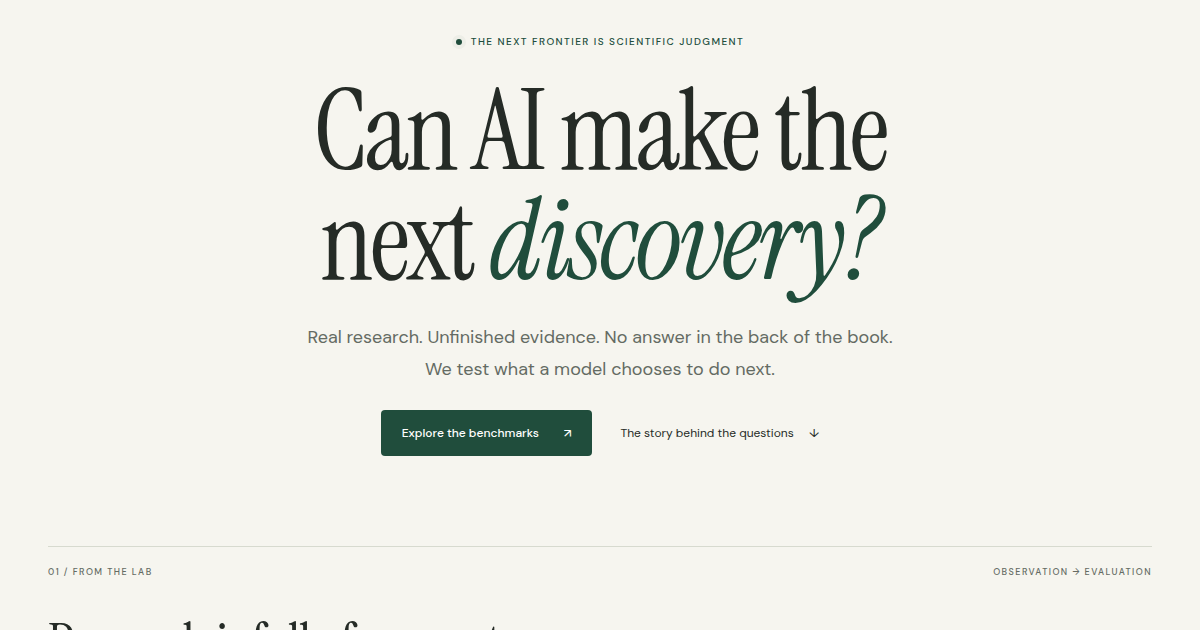
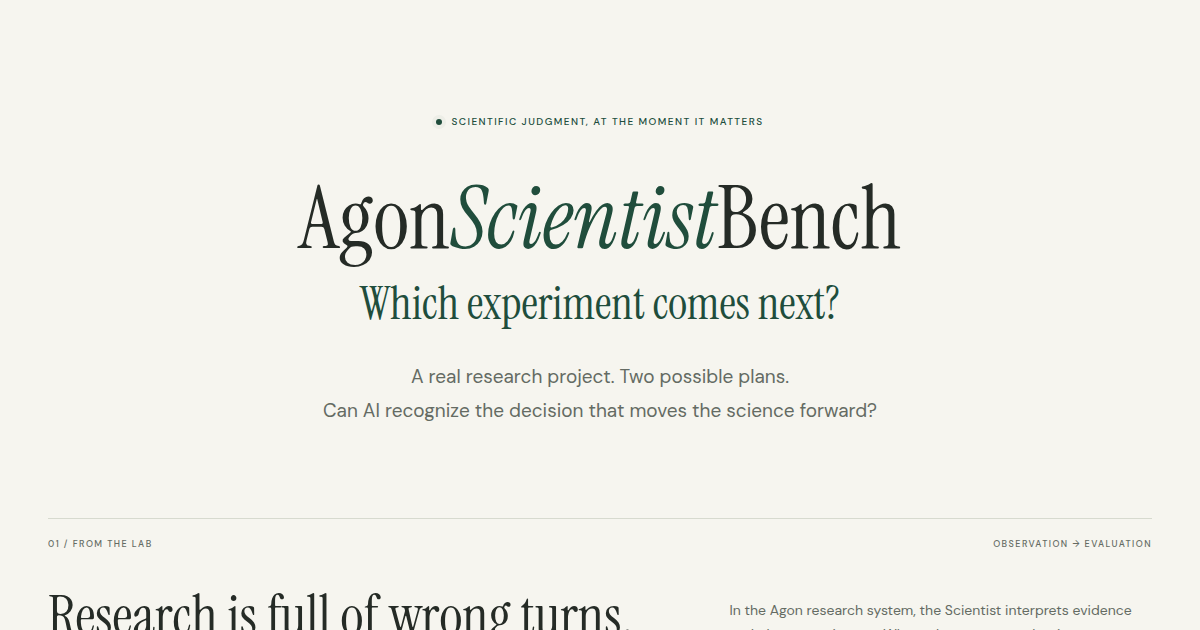
Unify AgonScientistBench branding around the two-choice first edition

diff --git a/index.html b/index.html
@@ -4,14 +4,14 @@
   <meta charset="utf-8">
   <meta name="viewport" content="width=device-width, initial-scale=1">
   <meta name="theme-color" content="#f6f5ef">
-  <meta name="description" content="Two benchmarks for scientific judgment. Built from real research histories, human interventions, and the experiments that followed.">
-  <meta property="og:title" content="Agon — Can AI make the next discovery?">
-  <meta property="og:description" content="Real research. Unfinished evidence. What should happen next? Explore two benchmarks for AI scientific judgment.">
+  <meta name="description" content="AgonScientistBench evaluates scientific judgment through two-choice questions drawn from real research histories. Which experiment should come next?">
+  <meta property="og:title" content="AgonScientistBench | Which experiment comes next?">
+  <meta property="og:description" content="A real research project. Two possible plans. A benchmark for the scientific judgment that determines what happens next.">
   <meta property="og:type" content="website">
   <meta property="og:image" content="https://autoresearch-factory.github.io/AgonBench-site/assets/social-card.png">
   <meta property="og:url" content="https://autoresearch-factory.github.io/AgonBench-site/">
   <link rel="canonical" href="https://autoresearch-factory.github.io/AgonBench-site/">
-  <title>Agon — Benchmarks for scientific judgment</title>
+  <title>AgonScientistBench | Scientific Judgment in Real Research</title>
   <link rel="icon" href="assets/mark.svg" type="image/svg+xml">
   <link rel="stylesheet" href="assets/fonts.css">
   <link rel="stylesheet" href="style.css">
@@ -20,51 +20,53 @@
 <body>
   <a class="skip-link" href="#main">Skip to content</a>
   <header class="header wrap">
-    <a class="brand" href="#" aria-label="Agon home"><svg viewBox="0 0 32 32" aria-hidden="true"><path d="M3 27 16 4l13 23M9 18h14M12 27l4-7 4 7"/></svg>agon<span class="brand-detail">RESEARCH BENCHMARKS</span></a>
-    <nav aria-label="Main navigation"><a href="#benchmarks">Benchmarks</a><a href="#specimen">Explore a case</a><a href="#findings">Findings</a></nav>
+    <a class="brand" href="#" aria-label="AgonScientistBench home"><svg viewBox="0 0 32 32" aria-hidden="true"><path d="M3 27 16 4l13 23M9 18h14M12 27l4-7 4 7"/></svg><span>AgonScientistBench</span></a>
+    <nav aria-label="Main navigation"><a href="#benchmark">Benchmark</a><a href="#specimen">Explore a case</a><a href="#findings">Findings</a></nav>
     <a class="nav-cta" href="https://github.com/AutoResearch-Factory/AgonBench-site">GitHub <span aria-hidden="true">↗</span></a>
   </header>
   <main id="main">
     <section class="hero wrap">
-      <div class="eyebrow"><span class="status-dot"></span> THE NEXT FRONTIER IS SCIENTIFIC JUDGMENT</div>
-      <h1>Can AI make the<br>next <em>discovery?</em></h1>
-      <p class="hero-copy">Real research. Unfinished evidence. No answer in the back of the book.<br class="desktop-break"> We test what a model chooses to do next.</p>
-      <div class="hero-actions"><a class="button primary" href="#benchmarks">Explore the benchmarks <span aria-hidden="true">↗</span></a><a class="text-link" href="#approach">The story behind the questions <span aria-hidden="true">↓</span></a></div>
-      <div class="research-map" aria-label="A research history is frozen at a decision point. Models receive only the past, then choose a next step or propose an experiment. Later evidence is reserved for evaluation.">
+      <div class="eyebrow"><span class="status-dot"></span> SCIENTIFIC JUDGMENT, AT THE MOMENT IT MATTERS</div>
+      <h1 class="benchmark-name"><span>Agon</span><em>Scientist</em><span>Bench</span></h1>
+      <p class="hero-question">Which experiment comes next?</p>
+      <p class="hero-copy">A real research project. Two possible plans.<br class="desktop-break"> Can AI recognize the decision that moves the science forward?</p>
+      <div class="hero-actions"><a class="button primary" href="#specimen">Explore a question <span aria-hidden="true">↗</span></a><a class="text-link" href="#approach">From the research floor <span aria-hidden="true">↓</span></a></div>
+      <div class="research-map" aria-label="A research history is frozen at a decision point. Models inspect the project and choose between two plans. Human interventions and later evidence are held back for evaluation.">
         <div class="map-topline"><span>FIG. 01 / THE MOMENT THAT MATTERS</span><span>FROM REAL RESEARCH HISTORIES</span></div>
         <div class="map-body">
           <div class="history-block"><div class="small-label">01 — THE EVIDENCE</div><div class="history-lines" aria-hidden="true"><span></span><span></span><span></span><span></span><span></span><span></span><span></span></div><div class="history-node"><span class="node-dot"></span><span>Code, logs &amp; experiments</span></div><p>A real project, mid-discovery.</p></div>
           <div class="decision-block"><div class="small-label">02 — THE DECISION</div><div class="decision-orbit" aria-hidden="true"><div class="orbit outer"></div><div class="orbit inner"></div><div class="decision-core">A<span>YOU ARE HERE</span></div><i class="satellite one"></i><i class="satellite two"></i></div><p>What would you do next?</p></div>
-          <div class="future-block"><div class="small-label">03 — THE TEST</div><div class="future-option"><span class="option-mark">↗</span><div><strong>Choose the better plan</strong><small>AgonBench · two choices</small></div></div><div class="future-option"><span class="option-mark">✳</span><div><strong>Predict the way forward</strong><small>AgonScientistBench · open response</small></div></div><div class="future-note"><span aria-hidden="true">◈</span> Evaluated against later evidence</div></div>
+          <div class="future-block"><div class="small-label">03 — THE CHOICE</div><div class="future-option"><span class="option-mark">A</span><div><strong>One possible plan</strong><small>A next step for this project</small></div></div><div class="future-option"><span class="option-mark">B</span><div><strong>An alternative plan</strong><small>The same evidence. A different decision.</small></div></div><div class="future-note">Choose with the evidence available at the time.</div></div>
         </div>
         <div class="map-bottomline"><span><i class="legend-line"></i> HISTORY THE MODEL CAN SEE</span><span><i class="legend-line dashed"></i> FUTURE EVIDENCE HELD BACK</span></div>
       </div>
     </section>
     <section class="origin wrap" id="approach">
       <div class="section-kicker"><span>01 / FROM THE LAB</span><span>OBSERVATION → EVALUATION</span></div>
-      <div class="section-intro"><h2>Research is full of wrong turns.<br><em>We kept the record.</em></h2><p>Agon runs real research projects with human oversight. When an experiment goes sideways and a researcher steps in, the history captures something valuable: a scientific decision, and the evidence behind it.</p></div>
+      <div class="section-intro"><h2>Research is full of wrong turns.<br><em>We kept the record.</em></h2><p>In the Agon research system, the Scientist interprets evidence and plans experiments. When a human researcher intervenes, the history captures a decision worth examining. Those Scientist traces become questions for AgonScientistBench.</p></div>
       <div class="stats"><div><strong>94</strong><span>research repositories</span></div><div><strong>291</strong><span>research dispatchers</span></div><div><strong>13,846</strong><span>agent calls traced</span></div><div class="stat-statement"><span class="small-label">THE SOURCE MATERIAL</span><p>Every question starts<br>with research that happened.</p></div></div>
       <p class="source-note">Source: Agon trace inventory. These counts describe the research corpus, not the number of benchmark questions.</p>
     </section>
-    <section class="benchmarks wrap" id="benchmarks">
-      <div class="section-kicker"><span>02 / TWO WAYS TO ASK</span><span>ONE SCIENTIFIC CHALLENGE</span></div>
-      <div class="section-intro"><h2>Recognize a good decision.<br><em>Then make one.</em></h2><p>Knowing the literature is a starting point. These tasks ask models to interpret incomplete evidence, choose useful experiments, and anticipate what the results will reveal.</p></div>
-      <div class="track-grid">
-        <article class="track choice-track"><div class="track-top"><span class="pill">TRACK 01</span><span class="small-label">TWO-CHOICE</span></div><h3>AgonBench</h3><p class="track-description">At a real research breakpoint, which plan moves the science forward?</p><div class="choice-visual" aria-hidden="true"><div><span>A</span><i></i><i></i></div><div class="chosen"><span>B</span><i></i><i></i><b>↗</b></div></div><p>Inspect a frozen project. Compare two plans drawn from the agent’s original direction and a human intervention.</p><div class="track-footer"><span>Read the scene. Choose a plan.</span><a href="https://github.com/AutoResearch-Factory/AgonBench" aria-label="Explore AgonBench on GitHub">↗</a></div></article>
-        <article class="track scientist-track"><div class="track-top"><span class="pill">TRACK 02</span><span class="small-label">OPEN RESPONSE</span></div><h3>AgonScientistBench</h3><p class="track-description">Before the answer is known, can a model see the mechanism?</p><div class="insight-visual" aria-hidden="true"><span>A</span><svg viewBox="0 0 260 70"><path class="wandering" d="M5 45C25 45 18 8 48 12S63 67 88 51 103 9 134 24 151 66 180 49 207 18 248 24"/><path class="direct" d="M5 45Q120 -17 248 24"/><path class="arrow-tip" d="m237 15 12 9-14 5"/></svg><span>A<span class="plus">++</span></span><small>ONE INSIGHT. ONE FIXED ROUND OF EXPERIMENTS.</small></div><p>Propose a mechanism, design a minimal experiment, predict the outcomes, and account for the compute.</p><div class="track-footer"><span>Answer now. Test against what followed.</span><a href="https://github.com/AutoResearch-Factory/AgonScientistBench" aria-label="Explore AgonScientistBench on GitHub">↗</a></div></article>
+    <section class="benchmarks wrap" id="benchmark">
+      <div class="section-kicker"><span>02 / THE FIRST EDITION</span><span>TWO-CHOICE SCIENTIFIC JUDGMENT</span></div>
+      <div class="section-intro"><h2>Two plausible plans.<br><em>One research decision.</em></h2><p>The first edition focuses on two-choice questions. Models inspect a frozen research project, then compare plans drawn from the Scientist’s original direction and a human intervention. The task is to choose the reference plan.</p></div>
+      <div class="protocol-grid">
+        <article><span class="small-label">01 / READ THE RESEARCH STATE</span><h3>The project as it stood.</h3><p>Code, notes, and experimental evidence from a specific Git commit. The correction and subsequent work stay outside the model’s view.</p><div class="snapshot-files" aria-hidden="true"><span>project/</span><span>code</span><span>notes</span><span>results</span><span class="snapshot-cutoff">cutoff</span></div></article>
+        <article><span class="small-label">02 / CHOOSE THE NEXT PLAN</span><h3>A decision, not a code patch.</h3><p>Two candidate plans for the same research state. Which one addresses the scientific problem? Model choices are scored against the case’s reference label.</p><div class="choice-visual" aria-hidden="true"><div><span>A</span><i></i><i></i></div><div class="chosen"><span>B</span><i></i><i></i><b>↗</b></div></div></article>
       </div>
     </section>
     <section class="specimen-section" id="specimen"><div class="wrap">
       <div class="section-kicker"><span>03 / AT THE RESEARCH FRONTIER</span><span>AN INTERACTIVE SPECIMEN</span></div>
-      <div class="specimen-layout"><div class="specimen-intro"><span class="small-label">TAKE THE SCIENTIST’S SEAT</span><h2>A model runs.<br>Nothing learns.<br><em>What next?</em></h2><p>A mapping network generates another network’s parameters. Training accuracy stays near chance for three epochs.</p><p>The code executes. The scientific question is why it fails.</p><div class="case-meta"><span>CASE / MAPPING NETWORKS 001</span><span>Adapted from an open-response task.<br>Shortened for this interactive illustration.</span></div></div>
-      <div class="case-panel"><div class="case-toolbar"><span class="case-light"></span> RESEARCH SNAPSHOT <span class="case-file">experiment.log</span></div><div class="log-lines"><div><span>01</span><code>mapping.init <b>tall orthogonal</b></code></div><div><span>02</span><code>activation <b>tanh</b></code></div><div><span>03</span><code>epochs <b>3 completed</b></code></div><div><span>04</span><code>accuracy <b class="log-warning">≈ chance</b></code></div></div><div class="case-question"><span class="small-label">WHERE WOULD YOU LOOK FIRST?</span><button class="answer" data-answer="scale" aria-pressed="false"><span>A</span><span>Check the scale of the generated parameters.<small>Test whether the mapping collapses their magnitude.</small></span><i aria-hidden="true">↗</i></button><button class="answer" data-answer="longer" aria-pressed="false"><span>B</span><span>Extend training across more random seeds.<small>Test whether the model simply needs more time.</small></span><i aria-hidden="true">↗</i></button><div class="answer-result" id="answer-result" role="status" aria-live="polite" hidden></div><button class="reset-case" hidden>Try again ↺</button></div></div></div>
+      <div class="specimen-layout"><div class="specimen-intro"><span class="small-label">TAKE THE SCIENTIST’S SEAT</span><h2>The robot fails.<br><em>But what failed?</em></h2><p>A project is building a soft-support simulator. A pretrained robot policy shows joint-limit violations, including in the rigid reference environment.</p><p>An early comparison has only eight qualified poses. Is it time for more experiments, or a different diagnosis?</p><div class="case-meta"><span>CASE / SOFT-SUPPORT SIMULATION</span><span>Condensed and translated from a two-choice case.<br>The full benchmark includes the project snapshot.</span></div></div>
+      <div class="case-panel"><div class="case-toolbar"><span class="case-light"></span> RESEARCH SNAPSHOT <span class="case-file">experiment.log</span></div><div class="log-lines"><div><span>01</span><code>policy <b>pretrained checkpoint</b></code></div><div><span>02</span><code>runtime <b>MuJoCo</b></code></div><div><span>03</span><code>qualified poses <b>8</b></code></div><div><span>04</span><code>rigid reference <b class="log-warning">joint-limit violations</b></code></div></div><div class="case-question"><span class="small-label">WHICH PLAN SHOULD COME NEXT?</span><button class="answer" data-answer="expand" aria-pressed="false"><span>A</span><span>Expand the pose pool and repeat the comparison.<small>Increase statistical power to study the apparent policy degradation.</small></span><i aria-hidden="true">↗</i></button><button class="answer" data-answer="validate" aria-pressed="false"><span>B</span><span>Validate simulator compatibility with the frozen policy.<small>Check joint limits, contacts, and timestep on a rigid reference first.</small></span><i aria-hidden="true">↗</i></button><div class="answer-result" id="answer-result" role="status" aria-live="polite" hidden></div><button class="reset-case" hidden>Try again ↺</button></div></div></div>
     </div></section>
-    <section class="method wrap" id="method"><div class="section-kicker"><span>04 / GROUNDED IN WHAT HAPPENED</span><span>THE EVALUATION PRINCIPLES</span></div><h2>Good judgment leaves <em>evidence.</em></h2><div class="principle-grid"><article><span class="principle-number">01</span><h3>The past is visible.<br>The future is not.</h3><p>Models receive the research state at a specific cutoff. Later interventions and experiments stay on the evaluation side.</p></article><article><span class="principle-number">02</span><h3>A convincing story<br>isn’t enough.</h3><p>Scientist responses are checked against a frozen ledger of mechanisms, experiments, and numerical outcomes supported by the trace.</p></article><article><span class="principle-number">03</span><h3>The next experiment<br>has a price.</h3><p>In the Scientist track, proposed compute is reconstructed against a shared dollar baseline. Extra work has to earn its place.</p></article></div><div class="rubric-strip"><span>SCIENTIST RUBRIC / 100 POINTS</span><div><b>15</b> Mechanism</div><div><b>50</b> Experimental design</div><div><b>30</b> Predictions</div><div><b>5</b> Resources</div></div></section>
+    <section class="method wrap" id="method"><div class="section-kicker"><span>04 / TESTING THE DECISION</span><span>THE TWO-CHOICE PROTOCOL</span></div><h2>Read the evidence.<br><em>Check the judgment.</em></h2><div class="principle-grid"><article><span class="principle-number">01</span><h3>The past is visible.<br>The correction is not.</h3><p>Each case starts at a frozen research state. Later interventions and work are used to construct the case, not included in the model’s project snapshot.</p></article><article><span class="principle-number">02</span><h3>Same question.<br>Both option orders.</h3><p>Each question is asked with the reference plan first and with it second. Correct selections are counted across both orders to reduce position bias.</p></article><article><span class="principle-number">03</span><h3>With the project.<br>And without it.</h3><p>An options-only arm tests how much can be inferred from wording alone. Comparing the two arms helps examine case quality and the use of project evidence.</p></article></div><div class="protocol-note"><span class="small-label">SOURCE AND SCOPE</span><p>Agon supplies the research histories. The benchmark evaluates models making Scientist decisions within those histories. Its cases reflect this research workflow; the reference labels are not a claim that every other scientific approach is invalid.</p></div></section>
     <section class="findings wrap" id="findings"><div class="section-kicker"><span>05 / AN EARLY SIGNAL</span><span class="pilot-tag">PRELIMINARY · CASE-WRITER PILOT</span></div><div class="findings-layout"><div><h2>More context.<br><em>Better judgment?</em></h2><p>In an early case-writer selection pilot, models chose the correct plan less often with the project available than with only the two options.</p><p class="findings-caveat">20 breakpoints · 3 case writers · 3 answerers · both option orders · 720 runs across two arms. This is a pilot, not a final benchmark leaderboard.</p><a class="text-link" href="#pilot-details">See the underlying counts <span aria-hidden="true">↓</span></a></div><div class="chart-panel"><div class="chart-heading"><span>CORRECT PLAN SELECTION</span><span>POOLED ACCURACY</span></div><div class="bar-chart" role="img" aria-label="Pilot pooled accuracy: with project, 130 out of 360, 36.1 percent; options only, 207 out of 360, 57.5 percent. Chance is 50 percent."><div class="chance-line"><span>50% chance</span></div><div class="bar-row"><div class="bar-label">With project <strong>36.1%</strong></div><div class="bar-track"><div class="bar-fill project" style="--value:36.111%"></div></div><span class="bar-detail">130 / 360 correct</span></div><div class="bar-row"><div class="bar-label">Options only <strong>57.5%</strong></div><div class="bar-track"><div class="bar-fill blind" style="--value:57.5%"></div></div><span class="bar-detail">207 / 360 correct</span></div><div class="chart-axis"><span>0</span><span>25</span><span>50</span><span>75</span><span>100%</span></div></div><p>Option-only performance can reflect cues in how cases are written. This pilot is used to examine case quality as well as model behavior.</p></div></div>
     <details id="pilot-details"><summary>Inspect the pilot data <span aria-hidden="true">+</span></summary><div class="table-scroll"><table><caption>Correct answers out of 40 per cell. Each answerer was run at medium reasoning effort. Labels follow the working draft.</caption><thead><tr><th scope="col">Case writer</th><th scope="col">Arm</th><th scope="col">gpt-6-astra</th><th scope="col">claude-opus-5</th><th scope="col">grok-4.6</th></tr></thead><tbody><tr><th scope="row">gpt-6-astra</th><td>Project</td><td>20</td><td>9</td><td>10</td></tr><tr><th scope="row">claude-opus-5</th><td>Project</td><td>20</td><td>16</td><td>14</td></tr><tr><th scope="row">grok-4.6</th><td>Project</td><td>19</td><td>14</td><td>8</td></tr><tr><th scope="row">gpt-6-astra</th><td>Options only</td><td>23</td><td>18</td><td>16</td></tr><tr><th scope="row">claude-opus-5</th><td>Options only</td><td>30</td><td>28</td><td>23</td></tr><tr><th scope="row">grok-4.6</th><td>Options only</td><td>22</td><td>25</td><td>22</td></tr></tbody></table></div></details>
     </section>
-    <section class="closing wrap"><span class="small-label">THE QUESTIONS ARE REAL. THE CHALLENGE IS OPEN.</span><h2>What does it take<br>to <em>think like a scientist?</em></h2><div class="hero-actions"><a class="button primary" href="https://github.com/AutoResearch-Factory/AgonBench">Explore AgonBench <span aria-hidden="true">↗</span></a><a class="button secondary" href="https://github.com/AutoResearch-Factory/AgonScientistBench">Explore AgonScientistBench <span aria-hidden="true">↗</span></a></div></section>
+    <section class="roadmap wrap"><span class="small-label">BEYOND THE FIRST EDITION</span><div><h3>Open response is next.</h3><p>A planned extension will ask models to propose a mechanism, design experiments, and predict results themselves. It is not part of the first two-choice release.</p></div><span class="pill">PLANNED</span></section>
+    <section class="closing wrap"><span class="small-label">AGONSCIENTISTBENCH / SCIENTIFIC JUDGMENT</span><h2>What does it take<br>to <em>think like a scientist?</em></h2><div class="hero-actions"><a class="button primary" href="#specimen">Try the example <span aria-hidden="true">↗</span></a><a class="button secondary" href="https://github.com/AutoResearch-Factory/AgonBench-site">Project on GitHub <span aria-hidden="true">↗</span></a></div><p class="release-note">First edition in preparation. Pilot results are preliminary.</p></section>
   </main>
-  <footer class="footer wrap"><a class="brand" href="#">agon<span class="brand-detail">FROM THE RESEARCH FLOOR</span></a><span>A benchmark suite from AutoResearch Factory.</span><a href="#main">Back to top ↑</a></footer>
+  <footer class="footer wrap"><a class="brand" href="#">AgonScientistBench</a><span>From the research histories of Agon.</span><a href="#main">Back to top ↑</a></footer>
 </body>
 </html>

diff --git a/style.css b/style.css
@@ -7,3 +7,11 @@
 @media(max-width:700px){h1{font-size:clamp(48px,15vw,76px)}}
 @media(max-width:370px){.header nav{gap:10px}.nav-cta{padding:8px}.future-option{gap:5px}.chart-heading{font-size:6px}.track h3{font-size:32px}}
 @media(prefers-reduced-motion:reduce){html{scroll-behavior:auto}*{transition:none!important;animation:none!important}}
+
+/* Unified brand and the two-choice first edition. */
+.brand{font-size:21px;letter-spacing:0;gap:10px}.header .brand>span{white-space:nowrap}.header nav{gap:24px}.hero{padding-top:55px}.benchmark-name{display:flex;justify-content:center;flex-wrap:wrap;font-size:91px;line-height:1.05;letter-spacing:0;margin:30px 0 12px}.benchmark-name>span,.benchmark-name>em{display:inline-block}.hero-question{font-family:var(--serif);font-size:40px;line-height:1.2;color:var(--green);margin:0 0 18px}.hero-copy{font-size:15px}.research-map{margin-top:40px;background:#fafaf6}.option-mark{font-family:var(--serif)}
+.protocol-grid{display:grid;grid-template-columns:1fr 1fr;gap:65px;margin-top:35px;border-top:1px solid var(--line);padding-top:28px}.protocol-grid article+article{border-left:1px solid var(--line);padding-left:45px}.protocol-grid .small-label{font-size:8px;color:var(--muted)}.protocol-grid h3{font-family:var(--serif);font-weight:400;font-size:33px;letter-spacing:0;margin:17px 0 10px}.protocol-grid p{font-size:13px;color:var(--muted)}.protocol-grid .choice-visual{height:122px}.snapshot-files{display:flex;align-items:center;gap:12px;font-family:monospace;font-size:11px;height:122px;color:var(--muted)}.snapshot-files>span:first-child{color:var(--green)}.snapshot-files>span+span{padding-left:10px;border-left:1px solid var(--line)}.snapshot-files .snapshot-cutoff{border-left:1px dashed #849477;color:var(--green);margin-left:auto;padding:17px 0 17px 10px}.protocol-note{display:grid;grid-template-columns:180px 1fr;gap:30px;padding:22px 0;border-top:1px solid var(--line);border-bottom:1px solid var(--line);margin-top:30px;align-items:start}.protocol-note .small-label{font-size:9px;line-height:1.75;color:var(--green)}.protocol-note p{font-size:11px;color:var(--muted)}.roadmap{display:grid;grid-template-columns:210px 1fr auto;gap:30px;align-items:center;margin-top:65px;padding:25px 0;border-top:1px solid var(--line);border-bottom:1px solid var(--line)}.roadmap>.small-label{font-size:9px;color:var(--muted)}.roadmap h3{font-size:17px;font-weight:500;margin-bottom:7px}.roadmap p{font-size:12px;color:var(--muted);max-width:650px}.release-note{font-size:10px;color:var(--muted);margin-top:20px}.footer .brand{font-size:21px;letter-spacing:0}h2,.stats strong,.track h3,.principle-grid h3{letter-spacing:0}
+@media(min-width:1500px){.hero{padding-top:65px}.benchmark-name{font-size:98px}}
+@media(max-width:1050px){.benchmark-name{font-size:72px}.brand{font-size:18px}.header nav{gap:18px}.protocol-grid{gap:30px}.protocol-grid article+article{padding-left:30px}.snapshot-files{gap:8px;font-size:10px}.roadmap{grid-template-columns:165px 1fr auto;gap:20px}}
+@media(max-width:700px){.header{flex-wrap:wrap;height:auto;min-height:96px;padding:17px 0 12px;gap:12px}.header .brand{font-size:19px;gap:7px}.header nav{order:3;width:100%;justify-content:center;font-size:10px;gap:25px}.header nav a:nth-child(2){display:block}.header .nav-cta{margin-left:auto}.hero{padding-top:35px}.eyebrow{font-size:7px;letter-spacing:0}.benchmark-name{font-size:59px;line-height:1.02;max-width:460px;margin:25px auto 17px}.hero-question{font-size:29px;max-width:280px;margin:0 auto 14px}.hero-copy{font-size:13px}.research-map{margin-top:32px}.protocol-grid{grid-template-columns:1fr;gap:22px;margin-top:27px;padding-top:23px}.protocol-grid article+article{border-left:0;border-top:1px solid var(--line);padding:23px 0 0}.protocol-grid h3{font-size:30px;margin-top:12px}.protocol-grid p{font-size:12px}.protocol-grid .choice-visual,.snapshot-files{height:100px}.snapshot-files{font-size:10px;gap:9px}.protocol-note{grid-template-columns:1fr;gap:10px;padding:18px 0}.roadmap{grid-template-columns:1fr auto;gap:15px;margin-top:45px;padding:22px 0}.roadmap>.small-label{grid-column:1/-1}.roadmap p{font-size:11px}.roadmap .pill{align-self:start}.release-note{font-size:9px}.footer .brand{font-size:18px}.log-lines>div{gap:10px}.log-lines code{font-size:10px;flex-wrap:wrap}.log-lines b{overflow-wrap:anywhere}.answer>span:nth-child(2){min-width:0}.specimen-intro h2{letter-spacing:0}}
+@media(max-width:370px){.header .brand{font-size:16px}.header .brand svg{width:21px}.benchmark-name{font-size:50px}.hero-question{font-size:27px}.snapshot-files{gap:6px;font-size:9px}.footer .brand{font-size:17px}}

diff --git a/app.js b/app.js
@@ -2,14 +2,14 @@ const answers = document.querySelectorAll('[data-answer]');
 const result = document.querySelector('#answer-result');
 const reset = document.querySelector('.reset-case');
 answers.forEach(button => button.addEventListener('click', () => {
-  const correct = button.dataset.answer === 'scale';
+  const correct = button.dataset.answer === 'validate';
   answers.forEach(answer => {
     answer.setAttribute('aria-pressed', String(answer === button));
     answer.classList.toggle('selected', answer === button);
-    answer.classList.toggle('supported', answer.dataset.answer === 'scale');
+    answer.classList.toggle('supported', answer.dataset.answer === 'validate');
   });
   result.hidden = false;
-  result.innerHTML = `<strong>${correct ? 'That is the mechanism the later trace supports.' : 'More training misses the first question: is the parameter scale right?'}</strong><p>The generated parameters collapse in scale. The reference answer compares tanh mappings at gain 1 and gain 50, using two shared seeds, and predicts how scale, loss, and accuracy change.</p><a href="https://github.com/AutoResearch-Factory/AgonScientistBench/tree/main/tasks/mapping-networks-001-hard">Read the full case and rubric ↗</a>`;
+  result.innerHTML = `<strong>${correct ? 'B is the reference plan: validate the simulator first.' : 'More poses cannot resolve an unvalidated simulator. The reference plan is B.'}</strong><p>The project is still validating its simulator. A pretrained policy violating joint limits on the rigid reference raises a compatibility problem before a soft-support research claim. Keep the policy frozen, compare joint-limit conventions, contacts, and timestep, then validate the soft-support behavior after resolving the rigid-reference issue.</p><a href="https://github.com/AutoResearch-Factory/AgonBench-site/blob/main/examples/soft-support.md">Read the example and source note ↗</a>`;
   reset.hidden = false;
 }));
 reset.addEventListener('click', () => {

diff --git a/examples/soft-support.md b/examples/soft-support.md
@@ -1,0 +1,49 @@
+# Example: Validate the Simulator Before Expanding the Experiment
+
+This is a condensed English illustration of a two-choice question in
+AgonScientistBench. It is not the complete benchmark item or an evaluation
+run: the complete item includes the frozen project and longer candidate plans.
+
+## Research State
+
+The project is building a physically credible soft-support simulator. A
+pretrained robot policy is being used as a functional probe. Joint-limit
+violations appear in the MuJoCo environment, and compatibility on a rigid
+reference has not been established. An early comparison has only eight
+rigid-qualified poses; the continuous joint-violation difference is not
+significant, and the correlation direction is opposite to the prediction.
+
+## Candidate Plans
+
+**A.** Expand the pose pool and repeat the comparison to increase statistical
+power for studying the apparent policy degradation.
+
+**B.** Keep the policy frozen and first validate simulator compatibility.
+Compare the robot model's joint limits, the training and evaluation runtimes'
+limit conventions, contacts, and timestep. Establish a rigid reference without
+joint-limit violations before validating the soft-support interaction.
+
+## Reference Answer: B
+
+The project is still validating its simulator. More samples cannot establish
+that an unvalidated runtime's behavior is a scientific finding about
+soft-support physics. The reference plan first isolates simulator/checkpoint
+compatibility, then checks the physical credibility of the soft-support
+interaction. It does not require retraining the policy or treating a simulator
+failure as a new scientific result.
+
+## Source and Simplification
+
+- Source case: `soft-support-bfm__20260713-1731__4fbc2f29`.
+- Source project snapshot: `f4388dcb2390a43238a22c2873213c4c9ee31f48`.
+- Candidate A condenses the source wrong plan's proposal to expand the pose
+  pool and continue formal comparison. Other branches are omitted.
+- Candidate B condenses the source reference plan's compatibility checks and
+  simulator validation. Detailed implementation and video-review instructions
+  are omitted.
+- A/B labels apply only to this illustration. The evaluation protocol presents
+  cases in both option orders.
+
+The reference answer reflects the case's recorded research objective and
+correction. This illustrative example is not a claim that every possible
+alternative experiment would be scientifically invalid.

diff --git a/README.md b/README.md
@@ -1,9 +1,14 @@
-# Agon Research Benchmarks
+# AgonScientistBench
 
 ## [Open the website](https://autoresearch-factory.github.io/AgonBench-site/)
 
-Public project website for AgonBench and AgonScientistBench. Anyone can view
-the website without a GitHub account.
+Public project website for AgonScientistBench, a benchmark for scientific
+judgment drawn from the Scientist role's real research histories in Agon.
+Anyone can view the website without a GitHub account.
+
+The first edition, being prepared for ICLR submission, includes two-choice
+questions only. An open-response extension is planned for a later release.
+This is a release plan, not a claim of conference acceptance or publication.
 
 This repository contains only the static website and its public assets.
 Research repositories are maintained separately and retain their own access
@@ -22,6 +27,8 @@ the site; no build step or separate deployment branch is needed.
 For a local preview, run `python3 -m http.server 8000 --bind 127.0.0.1` in
 this directory, then visit http://localhost:8000/.
 
-The sample is a shortened illustration adapted from an open-response task.
+The sample is condensed and translated from a two-choice soft-support
+simulation case. See [`examples/soft-support.md`](examples/soft-support.md).
 The results are preliminary case-writer pilot data, not a final leaderboard.
-Agon is the current working name of the suite.
+The public benchmark name is AgonScientistBench. The repository URL remains
+`AgonBench-site` so existing website links continue to work.
